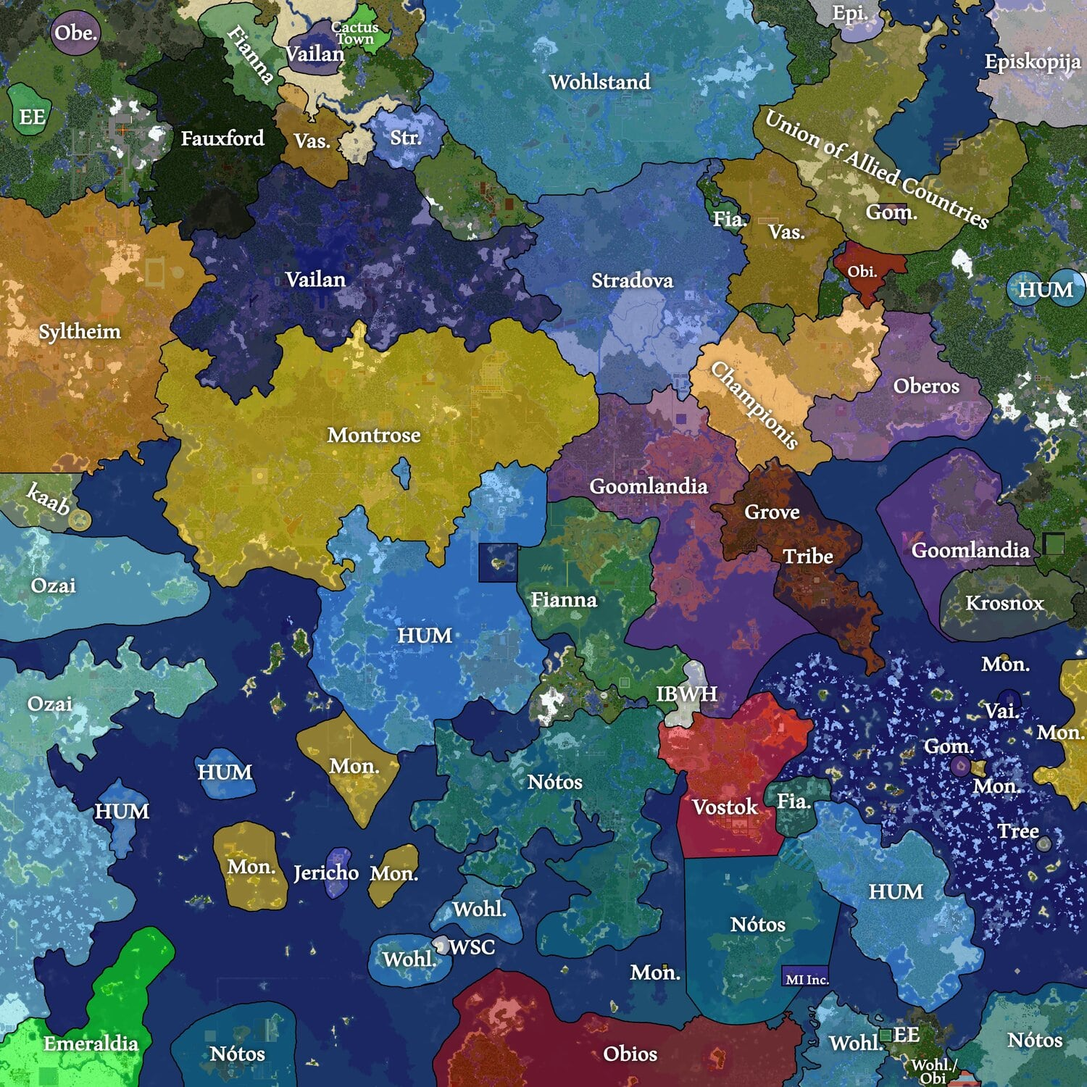
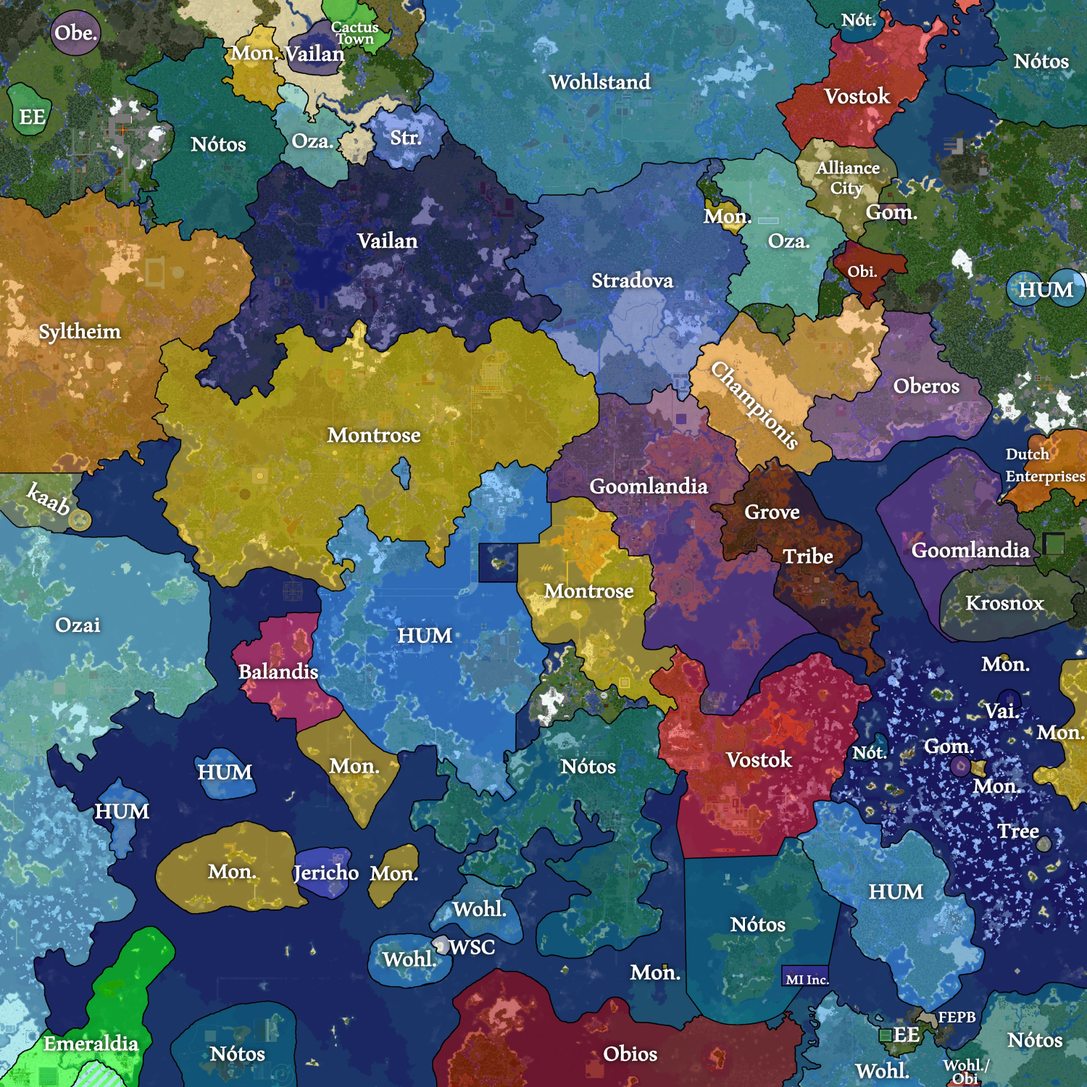
Nelt map v4.2
- New political map
- OpenGraph title updated to fit page title

diff --git a/index.html b/index.html
@@ -15,7 +15,7 @@
     <script src="leaflet/leaflet.js"></script>
     <script src="leaflet/coords.js"></script>
     <script src="https://kit.fontawesome.com/64fcc6f5cf.js" crossorigin="anonymous"></script>
-    <meta property="og:title" content="Interactive Nelt Map">
+    <meta property="og:title" content="Chipt's Nelt Map">
     <meta property="og:site_name" content="chipthrasher.com">
     <meta property="og:url" content="chipthrasher.com">
     <meta property="og:description" content="An interactive map of the Nelt, Elgeis's worldwide Nether highway.">

diff --git a/leaflet/coords.js b/leaflet/coords.js
@@ -10,7 +10,7 @@
  *        promptText: text displayed when user clicks the control
  *        precision: number of decimals to be displayed
  */
- 
+
 L.Control.Coordinates = L.Control.extend({
 	options: {
 		position: 'topleft',
